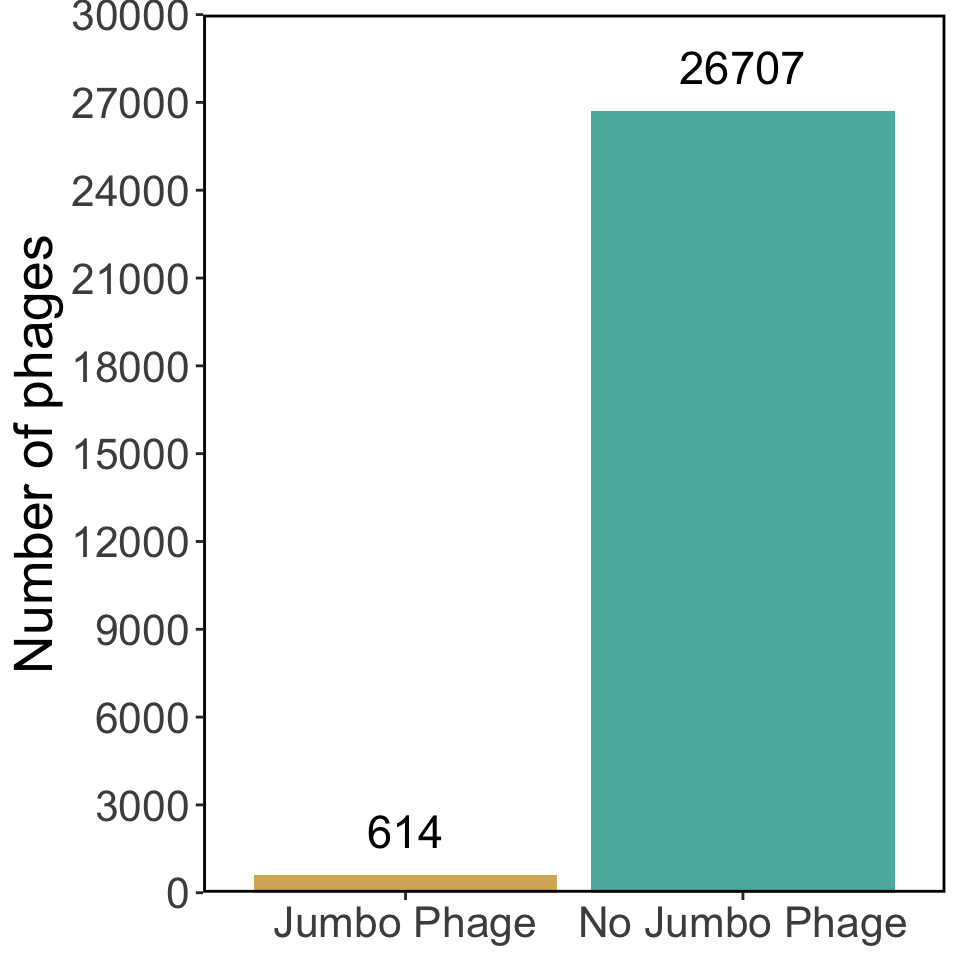
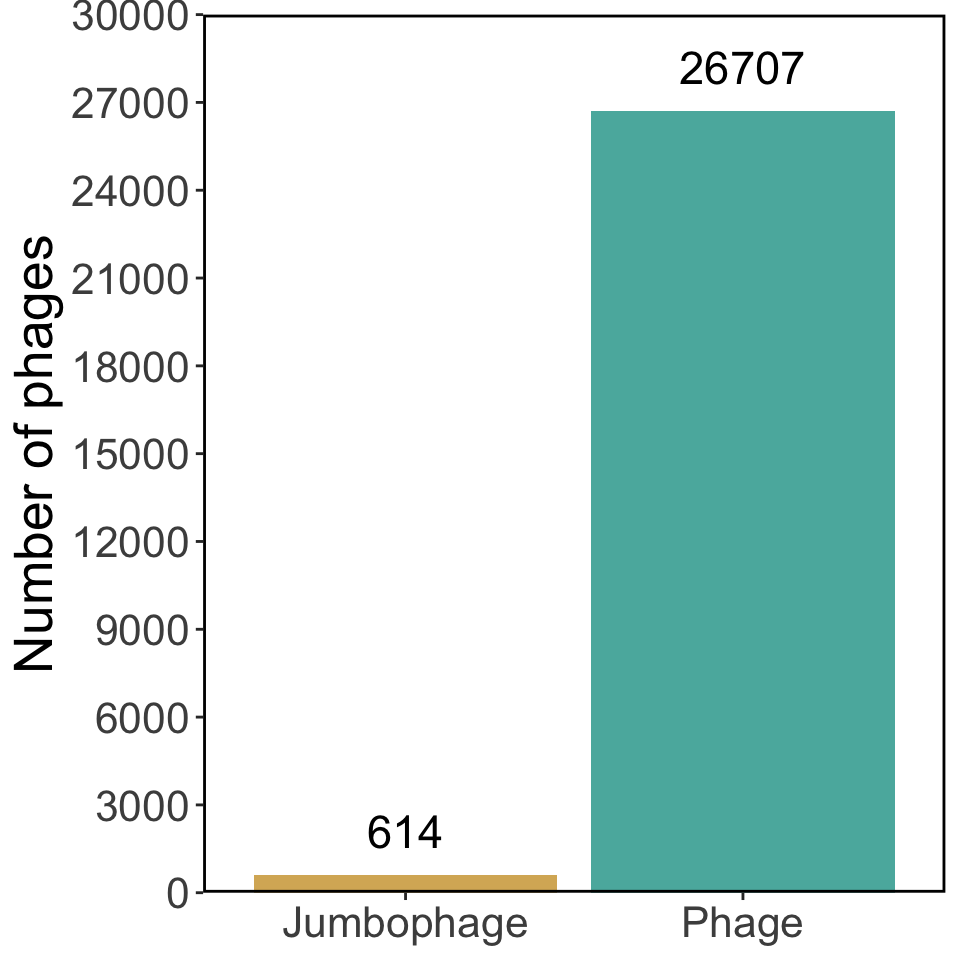
change variable names

Changed region(s): [[0.2812, 0.9375, 0.5625, 1.0], [0.6875, 0.9375, 0.9375, 1.0], [0.5938, 0.9375, 0.6562, 1.0]]

diff --git a/docs/jumbophages.html b/docs/jumbophages.html
@@ -199,7 +199,7 @@ pre > code.sourceCode > span > a:first-child::before { text-decoration: underlin
 <section id="jumbophage-genomes" class="level1">
 <h1>Jumbophage genomes</h1>
 <div class="justify">
-<p>Tailed phages with genomes larger than 200 kbp are classified as jumbo phages. Currently there are <strong>27321</strong> bacteriophage genomes in the NCBI and only <strong>2.25%</strong> of them are are classified as jumbo phages.</p>
+<p>Tailed phages with genomes larger than 200 kbp are classified as jumbophages. Currently there are <strong>27321</strong> bacteriophage genomes in the NCBI and only <strong>2.25%</strong> of them are are classified as jumbophages.</p>
 </div>
 <p><br></p>
 <div class="cell" data-layout-align="center" data-fig-heigth="7">
@@ -212,8 +212,8 @@ pre > code.sourceCode > span > a:first-child::before { text-decoration: underlin
 <span id="cb1-5"><a href="#cb1-5" aria-hidden="true" tabindex="-1"></a><span class="fu">read_tsv</span>(<span class="st">"rawdata/clean_genomes_data.tsv"</span>) <span class="sc">%&gt;%</span></span>
 <span id="cb1-6"><a href="#cb1-6" aria-hidden="true" tabindex="-1"></a>    <span class="fu">select</span>(jumbophage) <span class="sc">%&gt;%</span></span>
 <span id="cb1-7"><a href="#cb1-7" aria-hidden="true" tabindex="-1"></a>    <span class="fu">count</span>(jumbophage) <span class="sc">%&gt;%</span></span>
-<span id="cb1-8"><a href="#cb1-8" aria-hidden="true" tabindex="-1"></a>    <span class="fu">mutate</span>(<span class="at">jumbophage =</span> <span class="fu">if_else</span>(jumbophage <span class="sc">==</span> <span class="cn">FALSE</span>, <span class="st">"No Jumbo Phage"</span>,</span>
-<span id="cb1-9"><a href="#cb1-9" aria-hidden="true" tabindex="-1"></a>        <span class="st">"Jumbo Phage"</span></span>
+<span id="cb1-8"><a href="#cb1-8" aria-hidden="true" tabindex="-1"></a>    <span class="fu">mutate</span>(<span class="at">jumbophage =</span> <span class="fu">if_else</span>(jumbophage <span class="sc">==</span> <span class="cn">FALSE</span>, <span class="st">"Phage"</span>,</span>
+<span id="cb1-9"><a href="#cb1-9" aria-hidden="true" tabindex="-1"></a>        <span class="st">"Jumbophage"</span></span>
 <span id="cb1-10"><a href="#cb1-10" aria-hidden="true" tabindex="-1"></a>    )) <span class="sc">%&gt;%</span></span>
 <span id="cb1-11"><a href="#cb1-11" aria-hidden="true" tabindex="-1"></a>    <span class="fu">ggplot</span>(<span class="fu">aes</span>(</span>
 <span id="cb1-12"><a href="#cb1-12" aria-hidden="true" tabindex="-1"></a>        <span class="at">x =</span> jumbophage,</span>

diff --git a/docs/genome_size.html b/docs/genome_size.html
@@ -213,8 +213,8 @@ pre > code.sourceCode > span > a:first-child::before { text-decoration: underlin
 <span id="cb1-6"><a href="#cb1-6" aria-hidden="true" tabindex="-1"></a><span class="fu">read_tsv</span>(<span class="st">"rawdata/clean_genomes_data.tsv"</span>) <span class="sc">%&gt;%</span></span>
 <span id="cb1-7"><a href="#cb1-7" aria-hidden="true" tabindex="-1"></a>    <span class="fu">select</span>(genome_length_bp, jumbophage) <span class="sc">%&gt;%</span></span>
 <span id="cb1-8"><a href="#cb1-8" aria-hidden="true" tabindex="-1"></a>    <span class="fu">mutate</span>(<span class="at">jumbophage =</span> <span class="fu">if_else</span>(jumbophage <span class="sc">==</span> <span class="cn">FALSE</span>,</span>
-<span id="cb1-9"><a href="#cb1-9" aria-hidden="true" tabindex="-1"></a>        <span class="st">"No Jumbo Phage"</span>,</span>
-<span id="cb1-10"><a href="#cb1-10" aria-hidden="true" tabindex="-1"></a>        <span class="st">"Jumbo Phage"</span></span>
+<span id="cb1-9"><a href="#cb1-9" aria-hidden="true" tabindex="-1"></a>        <span class="st">"Phage"</span>,</span>
+<span id="cb1-10"><a href="#cb1-10" aria-hidden="true" tabindex="-1"></a>        <span class="st">"Jumbophage"</span></span>
 <span id="cb1-11"><a href="#cb1-11" aria-hidden="true" tabindex="-1"></a>    ), <span class="at">genome_length_bp =</span> genome_length_bp <span class="sc">/</span> <span class="dv">1000</span>) <span class="sc">%&gt;%</span></span>
 <span id="cb1-12"><a href="#cb1-12" aria-hidden="true" tabindex="-1"></a>    <span class="fu">ggplot</span>(<span class="fu">aes</span>(</span>
 <span id="cb1-13"><a href="#cb1-13" aria-hidden="true" tabindex="-1"></a>        <span class="at">y =</span> jumbophage,</span>
